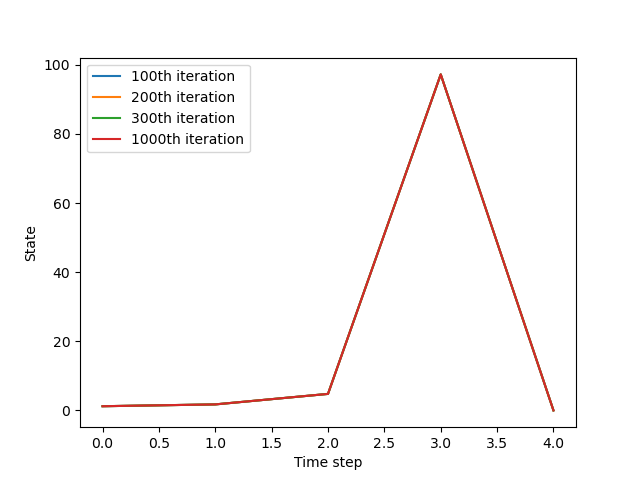
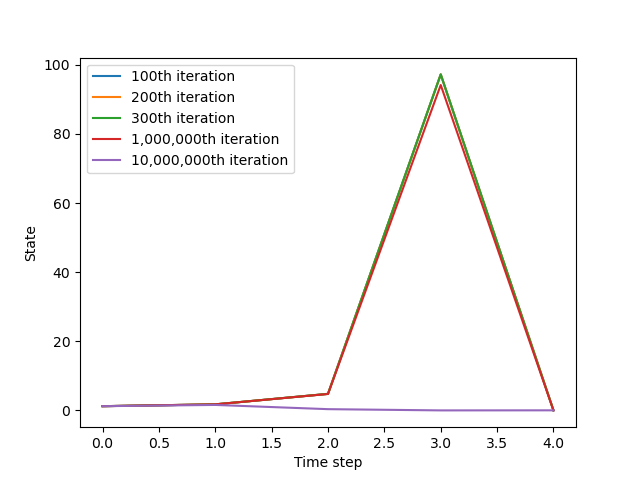
Fixed typos; Added higher iteration of x0=1.2

diff --git a/main.py b/main.py
@@ -34,11 +34,11 @@ class System:
                 u_hat[i+1] = self.inputs[i+1] + dcontrol_i
             v = self.full_cost(x_hat, u_hat)
             if v < self.v_bar:
-                print('v_bar: ', self.v_bar)
-                print('v: ', v)
+                # print('v_bar: ', self.v_bar)
+                # print('v: ', v)
                 self.v_bar = v
                 break
-            print('Gamma is being updated')
+            # print('Gamma is being updated')
             self.gamma_flag = True
             
         self.states = x_hat
@@ -130,9 +130,9 @@ def dsystem(target, x, u):
 
 
 if __name__ == "__main__":
-    sys2 = System(loss, 6, system, 1.2, dloss, dsystem)
+    sys2 = System(loss, 6, system, 1.02, dloss, dsystem)
     states = []
-    for i in range(1000):
+    for i in range(100):
         print('iteration: ', i)
         sys2.backward()
         sys2.forward()
@@ -142,20 +142,21 @@ if __name__ == "__main__":
 
     print('Quu:',sys2.Quu)
     # plt.plot(states[9], label='10th iteration')
-    # plt.plot(states[0], label='1st iteration')
-    # plt.plot(states[1], label='2rd iteration')
-    # plt.plot(states[2], label='3nd iteration')
-    # plt.plot(states[3], label='4th iteration')
-    # plt.plot(states[4], label='5th iteration')
-    # plt.plot(states[5], label='6th iteration')
-    # plt.plot(states[6], label='7th iteration')
-    # plt.plot(states[7], label='8th iteration')
-    # plt.plot(states[8], label='9th iteration')
-    # plt.plot(states[9], label='10th iteration')
+    plt.plot(states[0], label='1st iteration')
+    plt.plot(states[1], label='2nd iteration')
+    plt.plot(states[2], label='3rd iteration')
+    plt.plot(states[3], label='4th iteration')
+    plt.plot(states[4], label='5th iteration')
+    plt.plot(states[5], label='6th iteration')
+    plt.plot(states[6], label='7th iteration')
+    plt.plot(states[7], label='8th iteration')
+    plt.plot(states[8], label='9th iteration')
+    plt.plot(states[9], label='10th iteration')
     plt.plot(states[99], label='100th iteration')
-    plt.plot(states[199], label='200th iteration')
-    plt.plot(states[299], label='300th iteration')
-    plt.plot(states[-1], label='1000th iteration')
+    # plt.plot(states[199], label='200th iteration')
+    # plt.plot(states[299], label='300th iteration')
+    # plt.plot(states[999999], label='1,000,000th iteration')
+    # plt.plot(states[-1], label='10,000,000th iteration')
     plt.legend()
     plt.xlabel('Time step')
     plt.ylabel('State')
